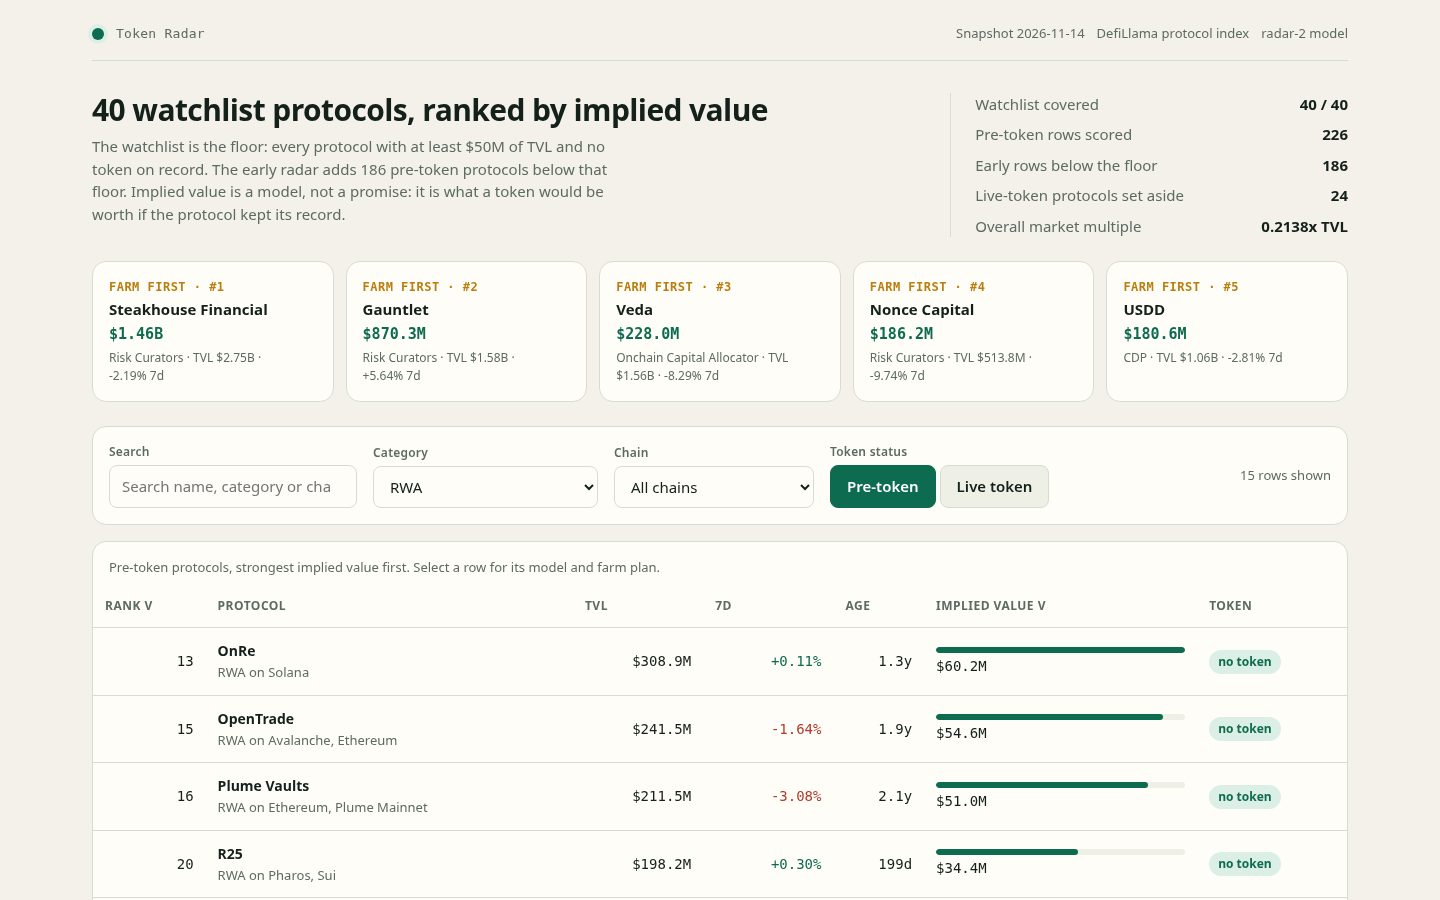
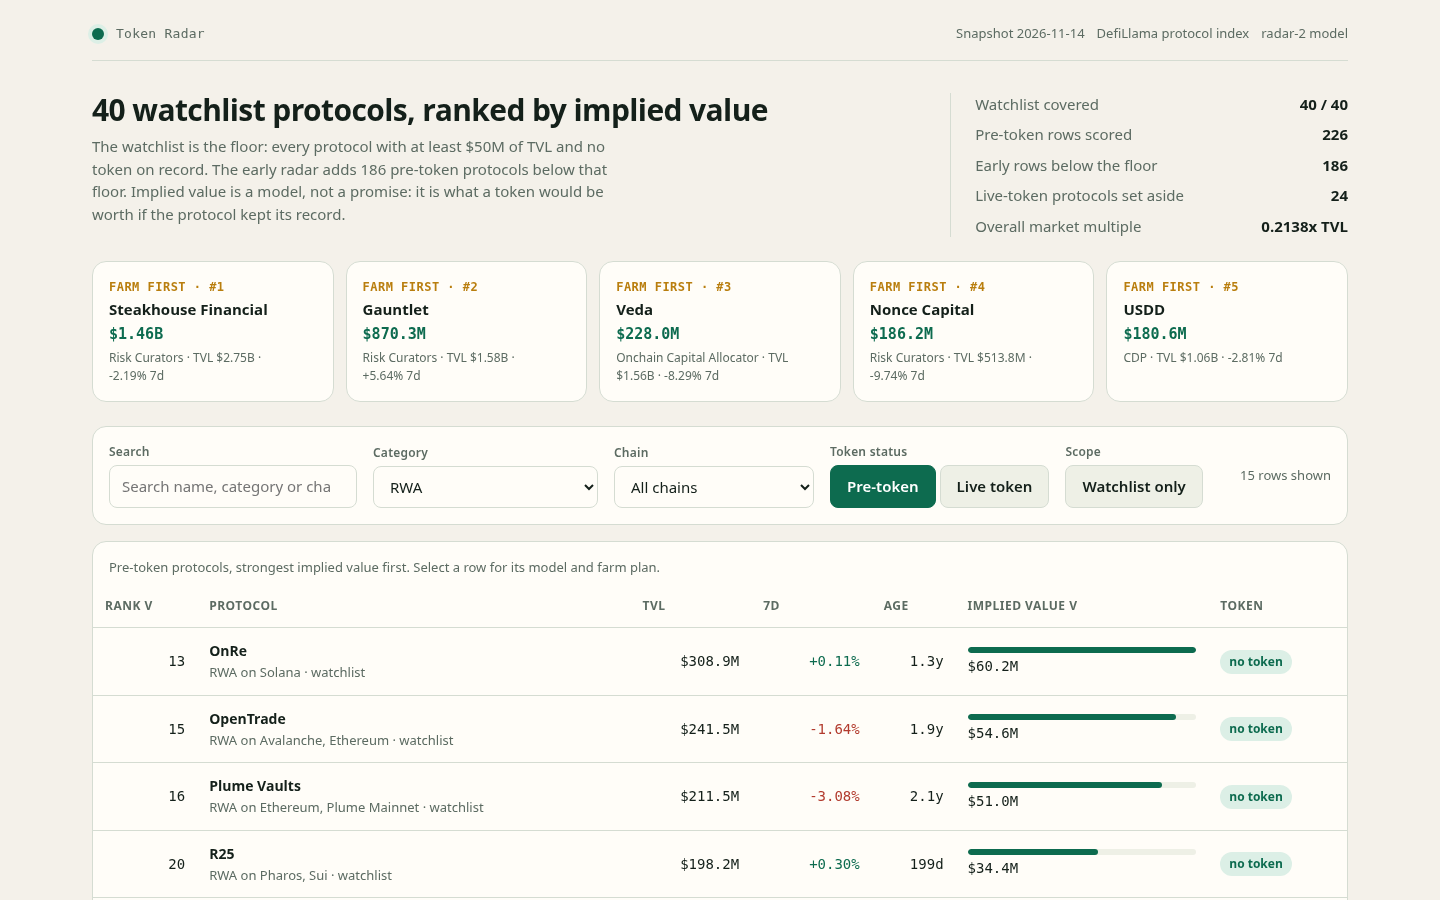
Revision: watchlist scope toggle + watchlist/early row labels

diff --git a/dashboard/app.js b/dashboard/app.js
@@ -8,7 +8,9 @@
   var DATA = window.RADAR;
   if (!DATA) return;
   var app = document.getElementById('board');
-  var state = { q: '', category: 'all', chain: 'all', tab: 'pre-token', sort: 'implied', dir: -1, selected: null };
+  var state = { q: '', category: 'all', chain: 'all', tab: 'pre-token', sort: 'implied', dir: -1, selected: null, watchlistOnly: false };
+  var WATCHLIST = {};
+  (DATA.watchlist || []).forEach(function (s) { WATCHLIST[s] = true; });
 
   var usd = new Intl.NumberFormat('en-US', { style: 'currency', currency: 'USD', maximumFractionDigits: 0 });
   function fmtUsd(n) {
@@ -145,6 +147,7 @@
   function rows() {
     var q = state.q.trim().toLowerCase();
     return DATA.rows.filter(function (r) {
+      if (state.watchlistOnly && !WATCHLIST[r.slug]) return false;
       if (state.category !== 'all' && r.category !== state.category) return false;
       if (state.chain !== 'all' && !(r.chains || []).some(function (c) { return c === state.chain; })) return false;
       if (!q) return true;
@@ -225,11 +228,13 @@
     chainSelect.addEventListener('change', function () { state.chain = chainSelect.value; writeHash(); render(); });
     var pre = el('button', { type: 'button', 'aria-pressed': state.tab === 'pre-token' ? 'true' : 'false', text: 'Pre-token', onclick: function () { state.tab = 'pre-token'; render(); } });
     var live = el('button', { type: 'button', 'aria-pressed': state.tab === 'live' ? 'true' : 'false', text: 'Live token', onclick: function () { state.tab = 'live'; render(); } });
+    var wl = el('button', { type: 'button', 'aria-pressed': state.watchlistOnly ? 'true' : 'false', text: 'Watchlist only', onclick: function () { state.watchlistOnly = !state.watchlistOnly; render(); } });
     return el('div', { class: 'controls' },
       el('div', { class: 'field' }, el('label', { for: 'q', text: 'Search' }), search),
       el('div', { class: 'field' }, el('label', { for: 'category', text: 'Category' }), catSelect),
       el('div', { class: 'field' }, el('label', { for: 'chain', text: 'Chain' }), chainSelect),
       el('div', { class: 'field' }, el('span', { class: 'sub', text: 'Token status' }), el('div', { class: 'tabs' }, pre, live)),
+      el('div', { class: 'field' }, el('span', { class: 'sub', text: 'Scope' }), el('div', { class: 'tabs' }, wl)),
       el('span', { class: 'count', text: state.tab === 'pre-token' ? rows().length + ' rows shown' : DATA.live.length + ' live-token protocols' })
     );
   }
@@ -249,7 +254,7 @@
       return el('div', { class: 'panel' }, el('div', { class: 'empty' },
         el('h2', { text: 'No protocol matches that filter' }),
         el('p', { text: 'Clear the search or pick another category or chain to see the board again.' }),
-        el('button', { class: 'button primary', type: 'button', text: 'Clear filters', onclick: function () { state.q = ''; state.category = 'all'; state.chain = 'all'; writeHash(); render(); } })
+        el('button', { class: 'button primary', type: 'button', text: 'Clear filters', onclick: function () { state.q = ''; state.category = 'all'; state.chain = 'all'; state.watchlistOnly = false; writeHash(); render(); } })
       ));
     }
     var max = list[0].implied_value_usd || 1;
@@ -266,7 +271,7 @@
         el('td', { class: 'num', text: String(r.rank) }),
         el('td', null, el('div', { class: 'name' },
           el('b', { text: r.name }),
-          el('span', { class: 'sub', text: (r.category || 'Other') + ' on ' + (r.chains && r.chains.length ? r.chains.slice(0, 2).join(', ') : 'an unnamed chain') })
+          el('span', { class: 'sub', text: (r.category || 'Other') + ' on ' + (r.chains && r.chains.length ? r.chains.slice(0, 2).join(', ') : 'an unnamed chain') + (WATCHLIST[r.slug] ? ' · watchlist' : ' · early') })
         )),
         el('td', { class: 'num', text: fmtUsd(r.tvl_usd) }),
         el('td', { class: 'num ' + growthClass, text: growth }),

diff --git a/lib/model.ts b/lib/model.ts
@@ -174,6 +174,7 @@ export interface RadarData {
   live_size: number;
   overall_multiple: number;
   category_multiples: CategoryMultiple[];
+  watchlist: string[];
   rows: RadarRow[];
   live: LiveRow[];
 }
@@ -497,6 +498,7 @@ export function buildRadar(snapshot: Snapshot, model: ModelConstants = MODEL): {
     live_size: live.length,
     overall_multiple: calibrated.overall,
     category_multiples: categoryMultiples,
+    watchlist: snapshot.watchlist,
     rows: board.map(radarRow),
     live,
   };

diff --git a/dashboard/app.css b/dashboard/app.css
@@ -129,6 +129,7 @@ td.num, th.num { text-align: right; }
   background: var(--accent-soft); color: var(--accent); white-space: nowrap;
 }
 .status.live { background: var(--amber-soft); color: var(--amber); }
+.scope-note { color: var(--muted); font-size: 12px; }
 .empty { padding: var(--step-6); text-align: center; display: grid; gap: var(--step-2); justify-items: center; }
 .button {
   padding: 10px var(--step-5); border-radius: var(--radius-control); border: 1px solid var(--border);

diff --git a/README.md b/README.md
@@ -42,7 +42,8 @@ with the vendored `vendor/makefun-board.ts`.
 
 `dashboard/` is a static page with no network: `index.html`, `app.css`, `app.js`, fed
 by `data.js`. It has a sortable board, search, category and chain filters, a pre-token /
-live-token switch, a "Farm first" top-5 strip, a category chart of total implied value,
+live-token switch, a "Watchlist only" scope toggle (every row is labelled watchlist or
+early so the floor is visible), a "Farm first" top-5 strip, a category chart of total implied value,
 a methodology panel with the calibrated multiples, and a detail dialog per protocol
 with the model's own inputs and a seven-step farm plan (action, cost, time).
 
